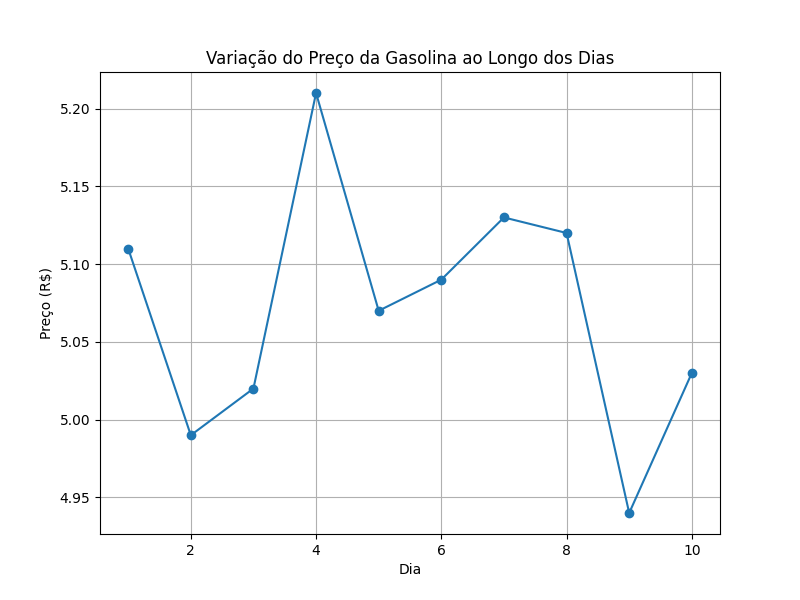
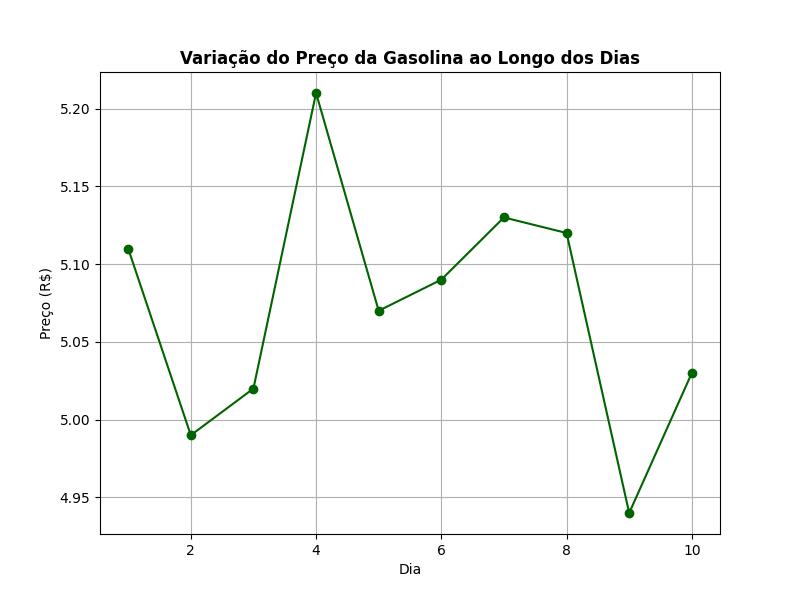
Arquivos de preço da gasolina, script Python e gráfico criados na branch DEVEL

diff --git a/gasolina.py b/gasolina.py
@@ -1,18 +1,20 @@
 
-import pandas as pd
 import matplotlib.pyplot as plt
+import pandas as pd
 
-#Carregando os dados
+# Carregando os dados
 df = pd.read_csv('gasolina.csv')
 
 # Plotando dados
 plt.figure(figsize=(8, 6))
-plt.plot(df['dia'], df['venda'], marker='o', linestyle='-')
-plt.title('Variação do Preço da Gasolina ao Longo dos Dias')
+plt.plot(df['dia'], df['venda'], marker='o', linestyle='-', color='darkgreen', label='Preço da Gasolina') # alterrei cor verde na linha
+
+# Ajustando o título para negrito e adicionando a legenda
+plt.title('Variação do Preço da Gasolina ao Longo dos Dias', fontweight='bold') #adicionando negrito no titulo
 plt.xlabel('Dia')
 plt.ylabel('Preço (R$)')
 plt.grid(True)
 
-#salvando grafico
+# Salvando o gráfico
 plt.savefig('gasolina.png')
 plt.show()
